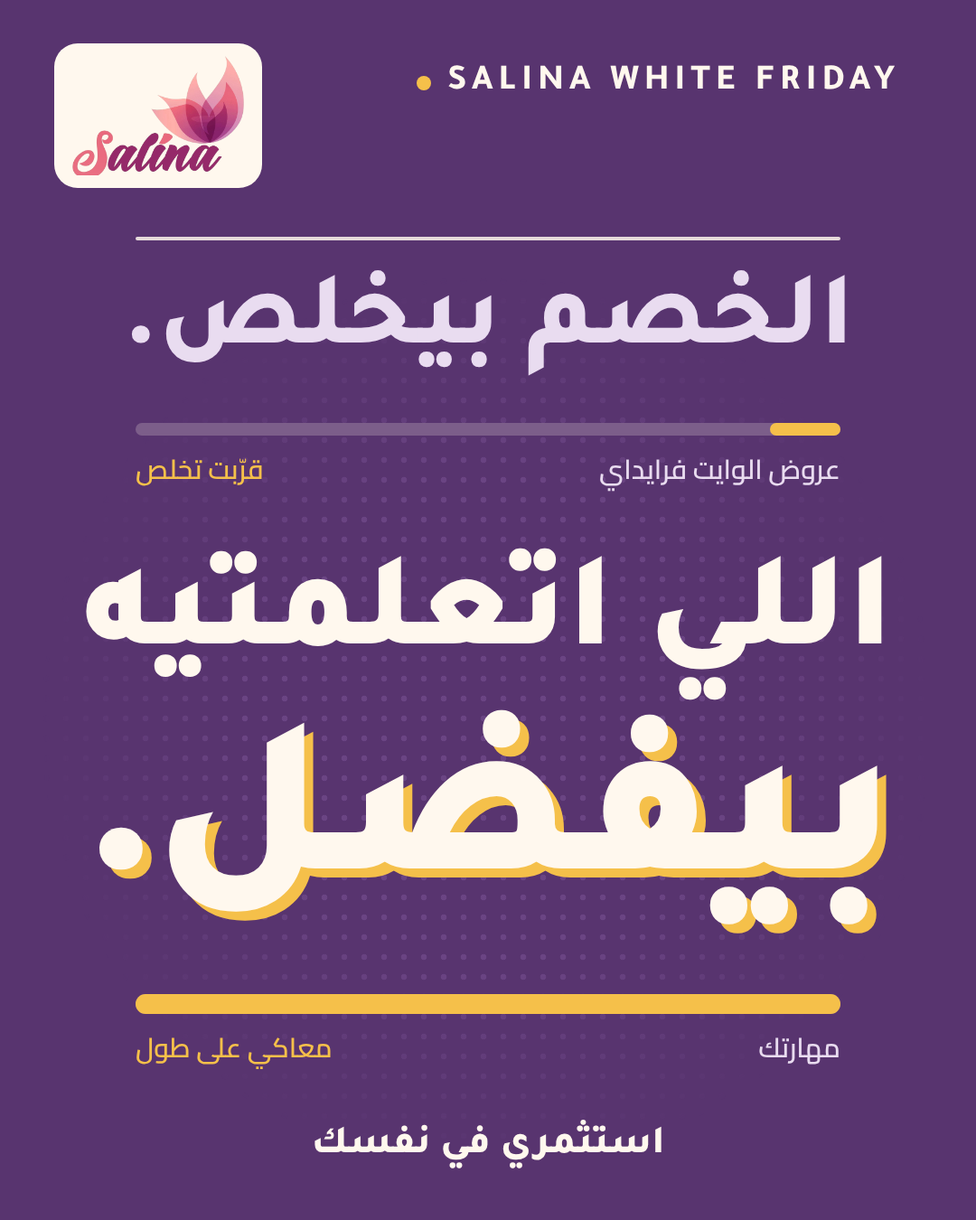
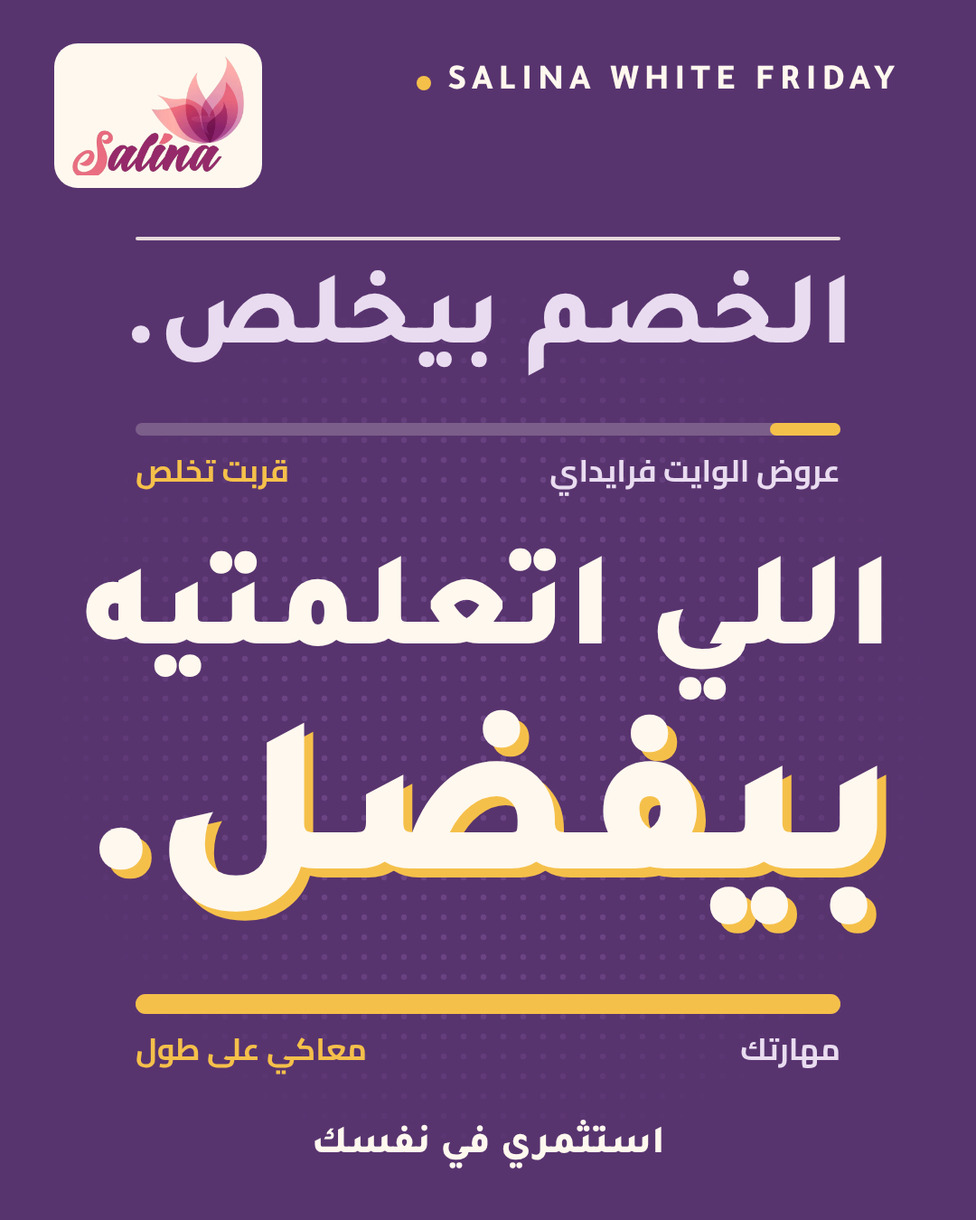
Samples final round: wording, wardrobe learning tools, price block, token-bound colors, editing guide
Claude-Session: https://claude.ai/code/session_01JHXKfdQx1HGGFfPSfJn6dh

diff --git a/SALINA-WHITE-FRIDAY/03-SOCIAL-POSTS/samples/sample-2-wardrobe.html b/SALINA-WHITE-FRIDAY/03-SOCIAL-POSTS/samples/sample-2-wardrobe.html
@@ -16,80 +16,96 @@
   <div class="d" style="top:272px;right:84px;font-size:112px;color:var(--ch)">والمهارات<span style="color:var(--pu)">؟</span></div>
 
   <svg style="left:0;top:0" width="1080" height="1350" viewBox="0 0 1080 1350" aria-hidden="true">
-    <g fill="none" stroke="#A979C0" stroke-width="5" stroke-linecap="round" stroke-linejoin="round">
+    <g fill="none" stroke="var(--vi)" stroke-width="5" stroke-linecap="round" stroke-linejoin="round">
       <!-- overflow on top of the clothes half -->
-      <rect x="610" y="430" width="110" height="46" rx="6" fill="#FFF8EE"/>
-      <rect x="626" y="398" width="84" height="34" rx="6" fill="#F3E7EF"/>
-      <g transform="translate(790 476)"><path d="M-20-44v-10c0-22 40-22 40 0v10"/><path d="M-44-44h88l-4 44H-40z" fill="#FFF8EE"/></g>
+      <rect x="610" y="430" width="110" height="46" rx="6" fill="var(--cr)"/>
+      <rect x="626" y="398" width="84" height="34" rx="6" fill="var(--tint)"/>
+      <g transform="translate(790 476)"><path d="M-20-44v-10c0-22 40-22 40 0v10"/><path d="M-44-44h88l-4 44H-40z" fill="var(--cr)"/></g>
 
       <!-- carcass -->
-      <rect x="190" y="490" width="700" height="690" rx="14" fill="#F3E7EF"/>
-      <rect x="172" y="474" width="736" height="28" rx="10" fill="#FFF8EE"/>
+      <rect x="190" y="490" width="700" height="690" rx="14" fill="var(--tint)"/>
+      <rect x="172" y="474" width="736" height="28" rx="10" fill="var(--cr)"/>
       <path d="M560 502V1180"/>
       <!-- doors, open -->
-      <path d="M890 504L990 552V1120L890 1168" fill="#FFF8EE"/>
-      <path d="M190 504L90 552V1120L190 1168" fill="#FFF8EE"/>
+      <path d="M890 504L990 552V1120L890 1168" fill="var(--cr)"/>
+      <path d="M190 504L90 552V1120L190 1168" fill="var(--cr)"/>
       <path d="M966 820v44M114 820v44"/>
 
       <!-- CLOTHES HALF: packed rail -->
       <path d="M574 598H878"/>
-      <g fill="#FFF8EE">
+      <g fill="var(--cr)">
         <g transform="translate(596 598) rotate(-5)"><path d="M0 0v-8"/><path d="M0 5L-22 20H22z"/><path d="M-20 20H20L30 38 20 42V176H-20V42L-30 38Z"/></g>
-        <g transform="translate(628 598) rotate(4)"><path d="M0 0v-8"/><path d="M0 5L-22 20H22z"/><path d="M-14 20H14L12 48 40 196H-40L-12 48Z" fill="#F3E7EF"/></g>
+        <g transform="translate(628 598) rotate(4)"><path d="M0 0v-8"/><path d="M0 5L-22 20H22z"/><path d="M-14 20H14L12 48 40 196H-40L-12 48Z" fill="var(--tint)"/></g>
         <g transform="translate(662 598) rotate(-3)"><path d="M0 0v-8"/><path d="M0 5L-22 20H22z"/><path d="M-20 20H20L30 38 20 42V186H-20V42L-30 38Z"/></g>
-        <g transform="translate(696 598) rotate(5)"><path d="M0 0v-8"/><path d="M0 5L-22 20H22z"/><path d="M-22 20H22L32 40 22 44V170H-22V44L-32 40Z" fill="#F3E7EF"/><path d="M-12 70h24M-12 96h24"/></g>
+        <g transform="translate(696 598) rotate(5)"><path d="M0 0v-8"/><path d="M0 5L-22 20H22z"/><path d="M-22 20H22L32 40 22 44V170H-22V44L-32 40Z" fill="var(--tint)"/><path d="M-12 70h24M-12 96h24"/></g>
         <g transform="translate(730 598) rotate(-4)"><path d="M0 0v-8"/><path d="M0 5L-22 20H22z"/><path d="M-14 20H14L12 48 38 206H-38L-12 48Z"/></g>
-        <g transform="translate(764 598) rotate(3)"><path d="M0 0v-8"/><path d="M0 5L-22 20H22z"/><path d="M-20 20H20L30 38 20 42V180H-20V42L-30 38Z" fill="#F3E7EF"/></g>
+        <g transform="translate(764 598) rotate(3)"><path d="M0 0v-8"/><path d="M0 5L-22 20H22z"/><path d="M-20 20H20L30 38 20 42V180H-20V42L-30 38Z" fill="var(--tint)"/></g>
         <g transform="translate(798 598) rotate(-5)"><path d="M0 0v-8"/><path d="M0 5L-22 20H22z"/><path d="M-20 20H20L30 38 20 42V192H-20V42L-30 38Z"/></g>
-        <g transform="translate(832 598) rotate(4)"><path d="M0 0v-8"/><path d="M0 5L-22 20H22z"/><path d="M-14 20H14L12 48 36 186H-36L-12 48Z" fill="#F3E7EF"/></g>
+        <g transform="translate(832 598) rotate(4)"><path d="M0 0v-8"/><path d="M0 5L-22 20H22z"/><path d="M-14 20H14L12 48 36 186H-36L-12 48Z" fill="var(--tint)"/></g>
         <g transform="translate(862 598) rotate(-2)"><path d="M0 0v-8"/><path d="M0 5L-22 20H22z"/><path d="M-20 20H20L30 38 20 42V172H-20V42L-30 38Z"/></g>
       </g>
       <!-- a sleeve squeezed out of the right door -->
-      <path d="M888 700q40 10 52 52l-18 8q-12-28-34-34z" fill="#FFF8EE"/>
+      <path d="M888 700q40 10 52 52l-18 8q-12-28-34-34z" fill="var(--cr)"/>
       <path d="M560 860H890"/>
       <!-- folded stack + bags -->
-      <g fill="#FFF8EE">
-        <rect x="582" y="1100" width="118" height="26" rx="8"/><rect x="588" y="1074" width="108" height="26" rx="8" fill="#F3E7EF"/>
-        <rect x="580" y="1048" width="120" height="26" rx="8"/><rect x="590" y="1022" width="104" height="26" rx="8" fill="#F3E7EF"/>
-        <rect x="584" y="996" width="114" height="26" rx="8"/><rect x="592" y="970" width="100" height="26" rx="8" fill="#F3E7EF"/>
+      <g fill="var(--cr)">
+        <rect x="582" y="1100" width="118" height="26" rx="8"/><rect x="588" y="1074" width="108" height="26" rx="8" fill="var(--tint)"/>
+        <rect x="580" y="1048" width="120" height="26" rx="8"/><rect x="590" y="1022" width="104" height="26" rx="8" fill="var(--tint)"/>
+        <rect x="584" y="996" width="114" height="26" rx="8"/><rect x="592" y="970" width="100" height="26" rx="8" fill="var(--tint)"/>
         <rect x="586" y="1126" width="116" height="40" rx="8"/>
         <g transform="translate(800 1070) rotate(-5)"><path d="M-36-34c0-50 72-50 72 0"/><path d="M-66-34H66q8 0 8 8v76q0 10-10 10H-64q-10 0-10-10v-76q0-8 8-8z"/><rect x="-12" y="-10" width="24" height="18" rx="4"/></g>
-        <g transform="translate(760 940) rotate(7)"><path d="M-20-40v-10c0-22 40-22 40 0v10"/><path d="M-46-40h92l-5 80q-1 8-9 8h-64q-8 0-9-8z" fill="#F3E7EF"/></g>
+        <g transform="translate(760 940) rotate(7)"><path d="M-20-40v-10c0-22 40-22 40 0v10"/><path d="M-46-40h92l-5 80q-1 8-9 8h-64q-8 0-9-8z" fill="var(--tint)"/></g>
         <g transform="translate(846 930) rotate(-9)"><path d="M-14-30v-8c0-16 28-16 28 0v8"/><path d="M-30-30h60l-4 60q-1 6-7 6h-38q-6 0-7-6z"/></g>
       </g>
       <!-- shoe falling out -->
-      <g transform="translate(985 1218) rotate(-16) scale(.74)"><path d="M-95 40V5c0-17 13-25 29-25h36l20 24c20 18 46 24 76 27l26 5c12 2 16 14 12 24H-95z" fill="#FFF8EE"/><path d="M-95 48h199"/></g>
+      <g transform="translate(985 1218) rotate(-16) scale(.74)"><path d="M-95 40V5c0-17 13-25 29-25h36l20 24c20 18 46 24 76 27l26 5c12 2 16 14 12 24H-95z" fill="var(--cr)"/><path d="M-95 48h199"/></g>
       <path d="M930 1150q14-18 6-40" stroke-dasharray="1 15"/>
 
-      <!-- SKILLS HALF: shelves + dashed slots for what's missing -->
+      <!-- SKILLS HALF: tidy shelves of solid learning tools, one slot still empty -->
       <path d="M190 720H560M190 920H560"/>
-      <g stroke-width="4" stroke-dasharray="9 11">
-        <rect x="300" y="602" width="54" height="116" rx="7"/>
-        <rect x="366" y="602" width="54" height="116" rx="7"/>
-        <rect x="432" y="602" width="54" height="116" rx="7"/>
-        <!-- laptop silhouette -->
-        <rect x="268" y="764" width="214" height="128" rx="12"/>
-        <path d="M250 900h250"/>
-        <!-- bulb silhouette -->
-        <path d="M412 962a40 40 0 0 0-24 72c4 4 6 9 6 15h36c0-6 2-11 6-15a40 40 0 0 0-24-72z"/>
-        <rect x="396" y="1056" width="32" height="18" rx="5"/>
-      </g>
+      <rect x="470" y="602" width="54" height="116" rx="7" stroke-width="4" stroke-dasharray="9 11"/>
     </g>
-    <!-- the one real thing on the skills side: a book -->
-    <g transform="translate(250 660) scale(.47)">
-      <rect x="-66" y="-126" width="132" height="236" rx="10" fill="#30263A"/>
-      <rect x="-66" y="-126" width="24" height="236" rx="6" fill="#463A52"/>
-      <rect x="-26" y="-94" width="72" height="14" rx="7" fill="#F5C04A"/>
-      <rect x="-26" y="-70" width="52" height="9" rx="4.5" fill="#FFF8EE" opacity=".75"/>
+    <!-- top shelf: books -->
+    <g transform="translate(240 662) rotate(0) scale(0.47)"><rect x="-66" y="-126" width="132" height="236" rx="10" fill="var(--ch)"/><rect x="-66" y="-126" width="24" height="236" rx="6" fill="#463A52"/><rect x="-26" y="-94" width="72" height="14" rx="7" fill="var(--gd)"/><rect x="-26" y="-70" width="52" height="9" rx="4.5" fill="var(--cr)" opacity=".75"/></g>
+    <g transform="translate(300 662) rotate(0) scale(0.47)"><rect x="-66" y="-126" width="132" height="236" rx="10" fill="var(--pu)"/><rect x="-66" y="-126" width="24" height="236" rx="6" fill="var(--pu-dk)"/><rect x="-26" y="-94" width="72" height="14" rx="7" fill="var(--gd)"/><rect x="-26" y="-70" width="52" height="9" rx="4.5" fill="var(--cr)" opacity=".75"/></g>
+    <g transform="translate(360 662) rotate(0) scale(0.47)"><rect x="-66" y="-126" width="132" height="236" rx="10" fill="var(--vi)"/><rect x="-66" y="-126" width="24" height="236" rx="6" fill="#8E62A8"/><rect x="-26" y="-94" width="72" height="14" rx="7" fill="var(--gd)"/><rect x="-26" y="-70" width="52" height="9" rx="4.5" fill="var(--cr)" opacity=".75"/></g>
+    <g transform="translate(424 668) rotate(9) scale(0.47)"><rect x="-66" y="-126" width="132" height="236" rx="10" fill="var(--ch)"/><rect x="-66" y="-126" width="24" height="236" rx="6" fill="#463A52"/><rect x="-26" y="-94" width="72" height="14" rx="7" fill="var(--gd)"/><rect x="-26" y="-70" width="52" height="9" rx="4.5" fill="var(--cr)" opacity=".75"/></g>
+    <!-- middle shelf: laptop + pencil cup -->
+    <g transform="translate(320 846) scale(.6)">
+      <rect x="-118" y="-128" width="236" height="160" rx="16" fill="var(--vi)"/><rect x="-102" y="-112" width="204" height="128" rx="8" fill="var(--cr)"/>
+      <rect x="-84" y="-94" width="96" height="14" rx="7" fill="var(--pu)"/><rect x="-84" y="-70" width="70" height="9" rx="4.5" fill="var(--vi)"/><rect x="-84" y="-54" width="56" height="9" rx="4.5" fill="var(--vi)"/>
+      <circle cx="54" cy="-58" r="28" fill="var(--gd)"/><path d="M46-72v28l22-14z" fill="var(--cr)"/>
+      <rect x="-84" y="-14" width="168" height="10" rx="5" fill="var(--tint)"/><rect x="-84" y="-14" width="104" height="10" rx="5" fill="var(--gd)"/>
+      <path d="M-134 34h268l14 22h-296z" fill="#8E62A8"/>
     </g>
-    <path d="M300 920V1086" stroke="#30263A" stroke-width="3" opacity=".5"/>
+    <g transform="translate(492 918)">
+      <rect x="-6" y="-112" width="12" height="70" rx="3" fill="var(--gd)" transform="rotate(-10)"/>
+      <path d="M-6-112l6-14 6 14z" fill="var(--ch)" transform="rotate(-10)"/>
+      <rect x="6" y="-104" width="12" height="62" rx="3" fill="var(--pu)" transform="rotate(12)"/>
+      <rect x="-30" y="-62" width="60" height="62" rx="8" fill="var(--ch)"/>
+    </g>
+    <!-- bottom: hanging bulb (the idea), certificate, books lying flat -->
+    <path d="M462 920V968" stroke="var(--ch)" stroke-width="3" opacity=".5"/>
+    <g transform="translate(462 1030) rotate(180) scale(.42)">
+      <path d="M-74-12a74 74 0 1 1 148 0c0 34-30 50-34 86h-80c-4-36-34-52-34-86z" fill="var(--gd)"/>
+      <rect x="-40" y="80" width="80" height="22" rx="8" fill="var(--pu)"/><rect x="-32" y="106" width="64" height="20" rx="8" fill="var(--pu-dk)"/>
+    </g>
+    <g stroke="var(--gd)" stroke-width="5" stroke-linecap="round"><path d="M462 1092v16M420 1074l-10 10M504 1074l10 10"/></g>
+    <g transform="translate(470 1128) rotate(4)">
+      <rect x="-62" y="-46" width="124" height="92" rx="8" fill="var(--pu)"/><rect x="-50" y="-34" width="100" height="68" rx="4" fill="var(--cr)"/>
+      <path d="M-34-16h56M-34-2h68M-34 12h36" stroke="var(--vi)" stroke-width="5" stroke-linecap="round"/>
+      <circle cx="30" cy="18" r="11" fill="var(--gd)"/>
+    </g>
+    <rect x="222" y="1148" width="150" height="26" rx="6" fill="var(--pu)"/><rect x="232" y="1122" width="132" height="26" rx="6" fill="var(--ch)"/>
+    <rect x="246" y="1128" width="60" height="7" rx="3.5" fill="var(--gd)"/>
+    <path d="M286 920V962" stroke="var(--ch)" stroke-width="3" opacity=".5"/>
   </svg>
 
   <!-- plaques naming the halves -->
   <div class="plaque" style="top:516px;left:610px;width:230px;background:var(--cr);color:var(--vi);box-shadow:inset 0 0 0 4px var(--vi)">اللبس</div>
   <div class="plaque" style="top:516px;left:255px;width:240px;background:var(--pu);color:var(--cr)">المهارات</div>
 
-  <div class="tag" style="top:1080px;left:208px;width:300px;height:72px;transform:rotate(-5deg);transform-origin:150px 0">لسه فيه مكان</div>
+  <div class="tag" style="top:956px;left:200px;width:236px;height:64px;font-size:30px;transform:rotate(-5deg);transform-origin:80px 0">لسه فيه مكان</div>
 
   <img class="logo" src="../../01-BRAND-ASSETS/salina-logo-transparent.png" alt="Salina" style="left:450px;bottom:26px;width:180px">
 </div>

diff --git a/SALINA-WHITE-FRIDAY/03-SOCIAL-POSTS/samples/sample-3-offer.html b/SALINA-WHITE-FRIDAY/03-SOCIAL-POSTS/samples/sample-3-offer.html
@@ -1,50 +1,59 @@
 <!doctype html>
-<html lang="ar"><head><meta charset="utf-8"><title>Sample 3 — بطاقة العرض</title>
+<html lang="ar"><head><meta charset="utf-8"><title>Sample 3 — بطاقة العرض (قالب)</title>
 <link rel="stylesheet" href="base.css">
 <style>
   .stage{background:var(--tint)}
   .pill{background:var(--pu);color:var(--cr);border-radius:999px;display:flex;align-items:center;gap:14px;font:800 28px/1 "Tajawal",sans-serif;letter-spacing:4px;direction:ltr;padding:18px 28px;white-space:nowrap}
   .pill i{width:12px;height:12px;border-radius:50%;background:var(--gd);display:block}
   .card{clip-path:polygon(50% 0,100% 12%,100% 100%,0 100%,0 12%);background:var(--gd);transform-origin:50% 0;
-        display:flex;flex-direction:column;align-items:flex-end;gap:16px;padding:150px 48px 0;box-sizing:border-box}
+        display:flex;flex-direction:column;align-items:stretch;gap:12px;padding:140px 44px 0;box-sizing:border-box}
   .card::before{content:"";position:absolute;left:50%;top:48px;width:36px;height:36px;margin-left:-18px;border-radius:50%;background:var(--tint)}
-  .card .k{font:600 32px/1.45 "Cairo",sans-serif;color:var(--ch);white-space:nowrap}
+  .card .k{font:600 30px/1.45 "Cairo",sans-serif;color:var(--ch);white-space:nowrap}
   .card .k b{font-weight:700;color:var(--pu)}
-  .ph{color:var(--pu-dk);font-weight:700}
+  .sep{border-top:5px dashed var(--pu);opacity:.45;margin-block:6px}
+  /* price block: three labelled rows, nothing overlaps */
+  .price{background:var(--pu);border-radius:26px;padding:20px 26px 22px;display:flex;flex-direction:column;gap:12px;margin-top:8px}
+  .price .row{display:flex;justify-content:space-between;align-items:center;gap:16px;min-width:0}
+  .price .lbl{font:600 26px/1.2 "Cairo",sans-serif;color:var(--soft);white-space:nowrap;flex:none}
+  .price .old{font:600 30px/1.2 "Cairo",sans-serif;color:var(--soft);text-decoration:line-through;white-space:nowrap;overflow:hidden;min-width:0}
+  .price .off{background:var(--gd);color:var(--pu);border-radius:999px;padding:6px 18px;font:800 30px/1.2 "Tajawal",sans-serif;white-space:nowrap;overflow:hidden;min-width:0}
+  .price .new{font:900 58px/1.1 "Tajawal",sans-serif;color:var(--cr);white-space:nowrap;overflow:hidden;text-align:right}
+  .price hr{border:0;border-top:2px solid rgba(255,248,238,.25);margin:2px 0}
 </style></head>
 <body>
 <div class="stage" id="stage">
   <div class="pill" style="top:56px;left:60px"><i></i>SALINA WHITE FRIDAY</div>
 
-  <!-- nail + string -->
   <div style="left:324px;top:150px;width:26px;height:26px;border-radius:50%;background:var(--pu)"></div>
   <div style="left:335px;top:170px;width:4px;height:70px;background:var(--ch);opacity:.55"></div>
 
-  <!-- the price tag = the course card (sample data in brackets) -->
-  <div class="card" style="left:87px;top:206px;width:500px;height:900px;transform:rotate(-4deg)">
-    <span class="k">[ورشة / كورس]</span>
-    <span class="d" style="font-size:68px;line-height:1.15">[اسم الورشة]</span>
-    <span class="k">مع <span class="ph">[اسم المدرّبة]</span></span>
-    <span style="align-self:stretch;border-top:5px dashed var(--pu);opacity:.45;margin-block:8px"></span>
-    <span class="k"><b>المدة:</b> [عدد الساعات / الأسابيع]</span>
-    <span class="k"><b>النظام:</b> [أونلاين / حضوري]</span>
-    <span class="k"><b>البداية:</b> [التاريخ]</span>
-    <span style="align-self:stretch;display:flex;flex-direction:column-reverse;align-items:flex-start;gap:10px;margin-top:26px;background:var(--pu);border-radius:26px;padding:22px 28px">
-      <span style="font:900 42px/1 'Tajawal',sans-serif;color:var(--cr);white-space:nowrap">[سعر العرض]</span>
-      <span style="font:600 26px/1.3 'Cairo',sans-serif;color:var(--soft);text-decoration:line-through;white-space:nowrap">[السعر الأصلي]</span>
-    </span>
+  <!-- TEMPLATE: every [data-field] is replaced from COURSE below; empty values keep the [placeholder] -->
+  <div class="card" style="left:87px;top:206px;width:500px;height:930px;transform:rotate(-4deg)">
+    <span class="k" data-field="type">[ورشة / كورس]</span>
+    <span class="d" style="font-size:66px;line-height:1.15;white-space:normal" data-field="title" data-fit-lines="2">[اسم الورشة]</span>
+    <span class="k">مع <b data-field="trainer">[اسم المدرّبة]</b></span>
+    <span class="sep"></span>
+    <span class="k"><b>المدة:</b> <span data-field="duration">[المدة]</span></span>
+    <span class="k"><b>النظام:</b> <span data-field="mode">[أونلاين / حضوري]</span></span>
+    <span class="k"><b>البداية:</b> <span data-field="start">[التاريخ]</span></span>
+    <div class="price">
+      <div class="row"><span class="lbl">السعر الأصلي</span><span class="old" data-field="price_old" data-fit>[السعر قبل]</span></div>
+      <div class="row"><span class="lbl">الخصم</span><span class="off" data-field="discount" data-fit>[نسبة الخصم]</span></div>
+      <hr>
+      <span class="lbl">سعر العرض</span>
+      <span class="new" data-field="price_new" data-fit>[السعر بعد]</span>
+    </div>
   </div>
 
-  <!-- message column -->
   <div class="d" style="top:236px;right:84px;font-size:72px;color:var(--ch);font-weight:800;line-height:1.2">بدل قطعة<br>جديدة...</div>
   <div class="d" style="top:440px;right:84px;font-size:116px;line-height:1.14">اشتري<br><span class="ul">مهارة.</span></div>
 
   <svg style="left:650px;top:780px" width="330" height="220" viewBox="-150 -135 300 200" aria-hidden="true">
     <g transform="rotate(-8)">
-      <rect x="-118" y="-128" width="236" height="160" rx="16" fill="#A979C0"/><rect x="-102" y="-112" width="204" height="128" rx="8" fill="#FFF8EE"/>
-      <rect x="-84" y="-94" width="96" height="14" rx="7" fill="#58346F"/><rect x="-84" y="-70" width="70" height="9" rx="4.5" fill="#A979C0"/><rect x="-84" y="-54" width="56" height="9" rx="4.5" fill="#A979C0"/>
-      <circle cx="54" cy="-58" r="28" fill="#F5C04A"/><path d="M46-72v28l22-14z" fill="#FFF8EE"/>
-      <rect x="-84" y="-14" width="168" height="10" rx="5" fill="#F3E7EF"/><rect x="-84" y="-14" width="104" height="10" rx="5" fill="#F5C04A"/>
+      <rect x="-118" y="-128" width="236" height="160" rx="16" fill="var(--vi)"/><rect x="-102" y="-112" width="204" height="128" rx="8" fill="var(--cr)"/>
+      <rect x="-84" y="-94" width="96" height="14" rx="7" fill="var(--pu)"/><rect x="-84" y="-70" width="70" height="9" rx="4.5" fill="var(--vi)"/><rect x="-84" y="-54" width="56" height="9" rx="4.5" fill="var(--vi)"/>
+      <circle cx="54" cy="-58" r="28" fill="var(--gd)"/><path d="M46-72v28l22-14z" fill="var(--cr)"/>
+      <rect x="-84" y="-14" width="168" height="10" rx="5" fill="var(--tint)"/><rect x="-84" y="-14" width="104" height="10" rx="5" fill="var(--gd)"/>
       <path d="M-134 34h268l14 22h-296z" fill="#8E62A8"/>
     </g>
   </svg>
@@ -53,4 +62,27 @@
 
   <img class="logo" src="../../01-BRAND-ASSETS/salina-logo-transparent.png" alt="Salina" style="left:76px;bottom:40px;width:210px">
 </div>
+<script>
+/* ===== COURSE DATA — fill these when the real course details arrive, then re-export ===== */
+const COURSE = {
+  type: "",       // ورشة أو كورس
+  title: "",      // اسم الورشة
+  trainer: "",    // اسم المدرّبة
+  duration: "",   // مثال: ٤ أسابيع
+  mode: "",       // أونلاين / حضوري
+  start: "",      // تاريخ البداية
+  price_old: "",  // السعر قبل الخصم
+  discount: "",   // نسبة الخصم
+  price_new: ""   // السعر بعد الخصم
+};
+document.querySelectorAll('[data-field]').forEach(el => { const v = COURSE[el.dataset.field]; if (v) el.textContent = v; });
+/* long values shrink to fit instead of overflowing */
+document.fonts.ready.then(() => {
+  document.querySelectorAll('[data-fit]').forEach(el => { let f = parseFloat(getComputedStyle(el).fontSize);
+    while (el.scrollWidth > el.clientWidth + 1 && f > 18) { f -= 1; el.style.fontSize = f + 'px'; } });
+  document.querySelectorAll('[data-fit-lines]').forEach(el => { const n = +el.dataset.fitLines; let f = parseFloat(getComputedStyle(el).fontSize);
+    const lh = () => parseFloat(getComputedStyle(el).lineHeight);
+    while (el.getBoundingClientRect().height > n * lh() + 2 && f > 40) { f -= 2; el.style.fontSize = f + 'px'; } });
+});
+</script>
 </body></html>

diff --git a/SALINA-WHITE-FRIDAY/07-SOURCE-FILES/qa-post.js b/SALINA-WHITE-FRIDAY/07-SOURCE-FILES/qa-post.js
@@ -23,12 +23,15 @@ const { chromium } = require('playwright'); const path = require('path');
       texts.push({ t: t.slice(0, 28), px: Math.round(px), font: cs.fontFamily.split(',')[0].replace(/"/g, ''), w: cs.fontWeight, contrast: +cr.toFixed(2), need: large ? 3 : 4.5,
         inside: R.left >= S.left - 1 && R.right <= S.right + 1 && R.top >= S.top - 1 && R.bottom <= S.bottom + 1 });
     }
-    return { size: [S.width, S.height], texts, imgs: [...st.querySelectorAll('img')].map(i => [i.getAttribute('src').split('/').pop(), i.naturalWidth > 0]),
+    const clipped = [...st.querySelectorAll('.card,.price,[data-fit]')].flatMap(box => { const B = box.getBoundingClientRect();
+      return [...box.querySelectorAll('*'), box].filter(e => e !== box || box.hasAttribute('data-fit')).filter(e => { const R = e.getBoundingClientRect(); return R.width && (e.scrollWidth > e.clientWidth + 1 || (e !== box && (R.bottom > B.bottom + 1 || R.left < B.left - 1))); }).map(e => (e.textContent || e.className).trim().slice(0, 24)); });
+    return { size: [S.width, S.height], texts, clipped: [...new Set(clipped)], imgs: [...st.querySelectorAll('img')].map(i => [i.getAttribute('src').split('/').pop(), i.naturalWidth > 0]),
       fonts: [...document.fonts].filter(f => f.status === 'loaded').map(f => f.family.replace(/"/g, '') + ' ' + f.weight) };
   });
   console.log(`\n== ${path.basename(input)}  stage ${r.size.join('x')}`);
   console.log('fonts loaded:', [...new Set(r.fonts)].join(', '));
   console.log('images:', JSON.stringify(r.imgs), failed.length ? 'FAILED: ' + failed.join(' ') : 'all assets loaded');
+  console.log(r.clipped.length ? 'CLIPPED: ' + JSON.stringify(r.clipped) : 'no clipped content');
   for (const t of r.texts) console.log(`${t.contrast >= t.need ? 'ok ' : 'LOW'} ${String(t.contrast).padStart(5)} (need ${t.need}) ${t.inside ? 'in ' : 'OUT'} ${t.px}px ${t.font} ${t.w}  ${t.t}`);
   await p.locator('#stage').screenshot({ path: out }); console.log('exported', out);
   await b.close();

diff --git a/SALINA-WHITE-FRIDAY/03-SOCIAL-POSTS/samples/sample-1-typography.html b/SALINA-WHITE-FRIDAY/03-SOCIAL-POSTS/samples/sample-1-typography.html
@@ -8,7 +8,7 @@
   .c{left:0;right:0;text-align:center}
   .meter{left:150px;right:150px;height:14px;border-radius:7px;background:rgba(255,248,238,.22)}
   .meter i{position:absolute;right:0;top:0;bottom:0;border-radius:7px;background:var(--gd)}
-  .cap{font:600 30px/1 "Cairo",sans-serif;color:var(--soft);white-space:nowrap}
+  .cap{font:700 34px/1 "Cairo",sans-serif;color:var(--soft);white-space:nowrap}
   .rule{left:150px;right:150px;height:4px;border-radius:2px;background:var(--cr);opacity:.85}
   .halftone{left:40px;top:300px;width:1000px;height:1000px;border-radius:50%;
     background-image:radial-gradient(circle,#6A4483 3.2px,transparent 3.6px);background-size:22px 22px;
@@ -26,7 +26,7 @@
   <div class="d c" style="top:300px;font-size:116px;color:var(--soft);font-weight:800">الخصم بيخلص.</div>
   <div class="meter" style="top:468px"><i style="width:10%"></i></div>
   <div class="cap" style="top:504px;right:150px">عروض الوايت فرايداي</div>
-  <div class="cap" style="top:504px;left:150px;color:var(--gd)">قرّبت تخلص</div>
+  <div class="cap" style="top:504px;left:150px;color:var(--gd)">قربت تخلص</div>
 
   <!-- line 2: what you learn — big, bright, its meter full -->
   <div class="d c" style="top:610px;font-size:150px;color:var(--cr)">اللي اتعلمتيه</div>

diff --git a/SALINA-WHITE-FRIDAY/03-SOCIAL-POSTS/samples/README.md b/SALINA-WHITE-FRIDAY/03-SOCIAL-POSTS/samples/README.md
@@ -1,0 +1,50 @@
+# نماذج SALINA WHITE FRIDAY: طريقة التعديل
+
+كل تصميم ملف HTML لوحده، فيه نص حقيقي ورسومات SVG. مفيش جوه الملفات أي صورة جاهزة غير اللوجو.
+الصور النهائية PNG بتطلع من الملفات دي، فأي تعديل بيتعمل هنا، وبعدين تطلّعي الصورة تاني.
+
+| التصميم | ملف المصدر | الصورة النهائية |
+|---|---|---|
+| ١ Typography | `sample-1-typography.html` | `../../08-EXPORTS/samples/salina-wf-sample-1-typography.png` |
+| ٢ الدولاب | `sample-2-wardrobe.html` | `../../08-EXPORTS/samples/salina-wf-sample-2-wardrobe.png` |
+| ٣ العرض (قالب) | `sample-3-offer.html` | `../../08-EXPORTS/samples/salina-wf-sample-3-offer.png` |
+
+ملفات مشتركة:
+- `base.css`: ألوان الحملة وإعدادات الخطوط المشتركة.
+- `../../01-BRAND-ASSETS/fonts/`: ملفات خطوط Tajawal وCairo، فالتصميم مش محتاج نت.
+- `../../01-BRAND-ASSETS/salina-logo-transparent.png`: اللوجو.
+
+## تعديل النصوص
+- افتحي ملف التصميم في أي محرر نصوص، ودوّري على الجملة نفسها، مثلًا `الخصم بيخلص.`، وغيّريها.
+- كل جملة مكتوب جنبها مكانها وحجمها، مثلًا `top:300px;font-size:116px`.
+- **في قالب العرض:** مش محتاجة تلمسي التصميم خالص. في آخر الملف هتلاقي جزء اسمه `COURSE`، اكتبي فيه البيانات:
+  ```js
+  const COURSE = { type: "ورشة", title: "...", trainer: "...", duration: "...", mode: "...",
+                   start: "...", price_old: "...", discount: "...", price_new: "..." };
+  ```
+  أي خانة فاضية بيفضل مكانها `[...]`. ولو اسم الورشة أو السعر طويل، الخط بيصغر لوحده عشان مايطلعش برا البطاقة.
+
+## تعديل الألوان
+- كل ألوان الحملة متعرّفة مرة واحدة في `base.css`:
+  `--pu` بنفسجي، `--gd` ذهبي، `--vi` بنفسجي فاتح، `--cr` كريمي، `--ch` فحمي، `--tint` بنفسجي باهت.
+- لو غيّرتي لون من هنا، بيتغير في الكلام والأشكال والرسومات في الثلاث تصميمات.
+- فيه ثلاث درجات تظليل بس مكتوبة جوه الرسومات نفسها: `#8E62A8` قاعدة اللابتوب، و`#463A52` كعب الكتاب، و`#6A4483` النقط اللي ورا الكلام في التصميم ١.
+
+## تعديل العناصر
+- كل رسمة متجمعة جوه `<g transform="translate(x y) rotate(..) scale(..)">`:
+  - غيّري `translate` عشان تحرّكيها.
+  - غيّري `scale` عشان تكبّريها أو تصغّريها.
+  - احذفي الجروب كله عشان تشيليها.
+- فوق كل جزء ملاحظة بتقول هو إيه، مثلًا `<!-- top shelf: books -->` و`<!-- bottom: hanging bulb -->`.
+- اللوجو عنصر `<img>`، ومكانه وحجمه مكتوبين في `style` بتاعه.
+
+## التصدير والمراجعة
+```bash
+node SALINA-WHITE-FRIDAY/07-SOURCE-FILES/qa-post.js SALINA-WHITE-FRIDAY/03-SOCIAL-POSTS/samples/sample-3-offer.html SALINA-WHITE-FRIDAY/08-EXPORTS/samples/salina-wf-sample-3-offer.png
+```
+الأمر ده بيطلّع صورة بمقاس 1080×1350 بالظبط، وقبلها بيراجع الحاجات دي:
+- أي كلام طالع برا الكادر بيتعلّم `OUT`.
+- أي محتوى متقطّع جوه البطاقة بيظهر تحت `CLIPPED`.
+- أي كلام تباينه ضعيف بيتعلّم `LOW`.
+- اسم كل خط اتحمّل.
+- أي ملف ناقص ماتحمّلش.
